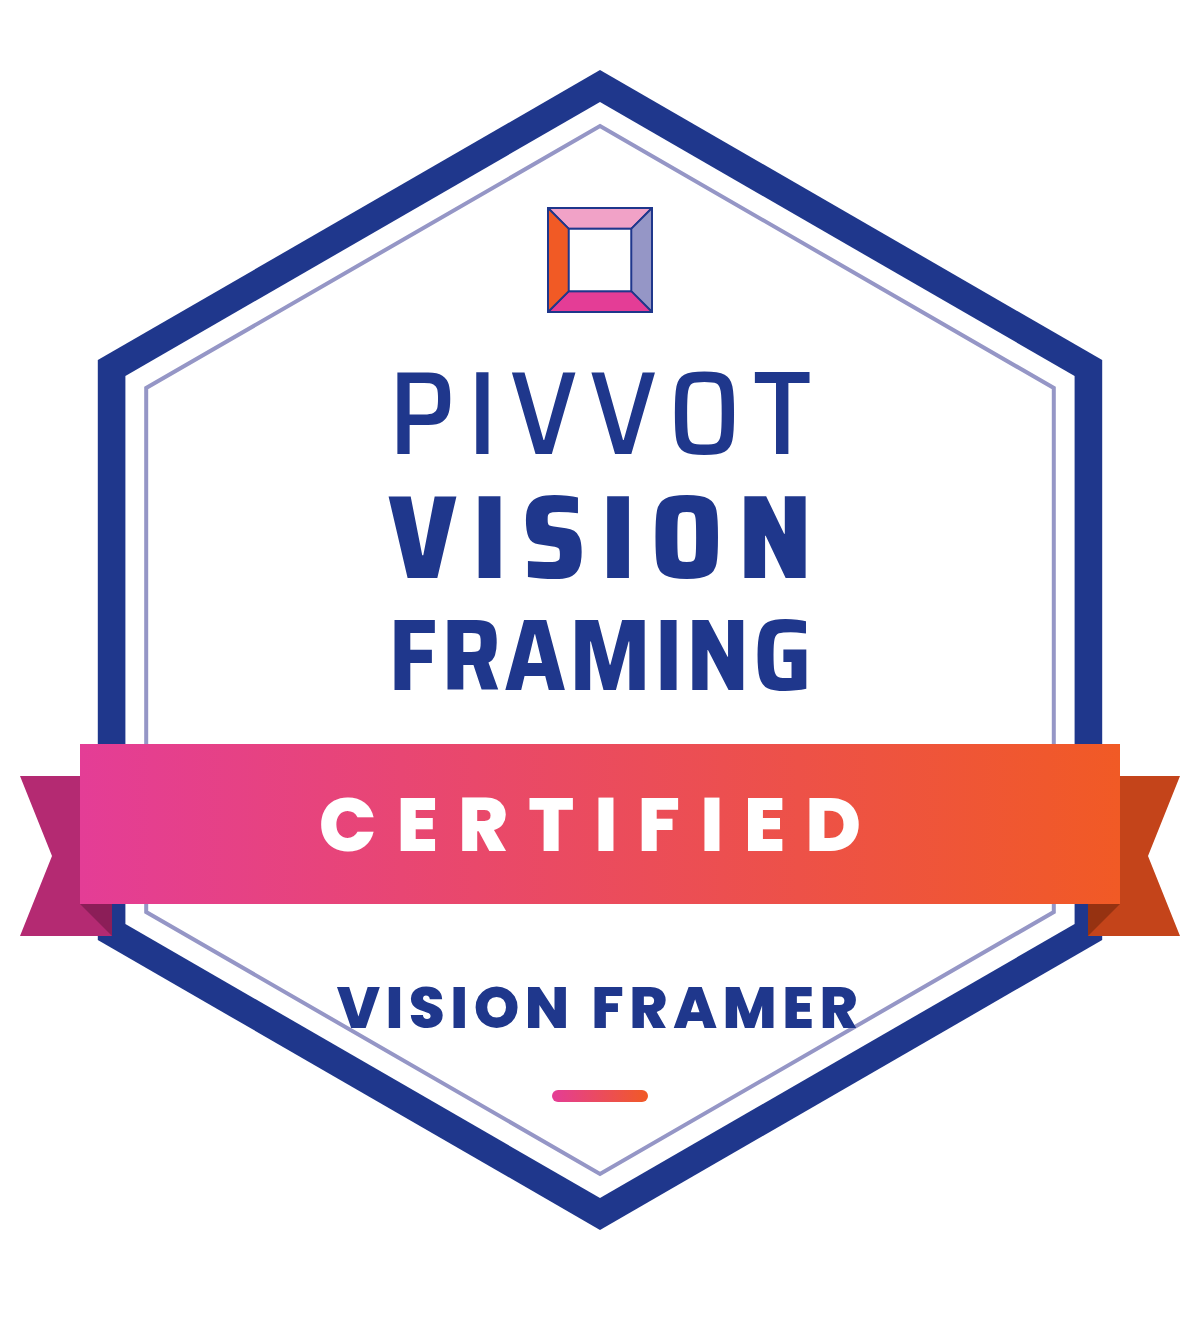
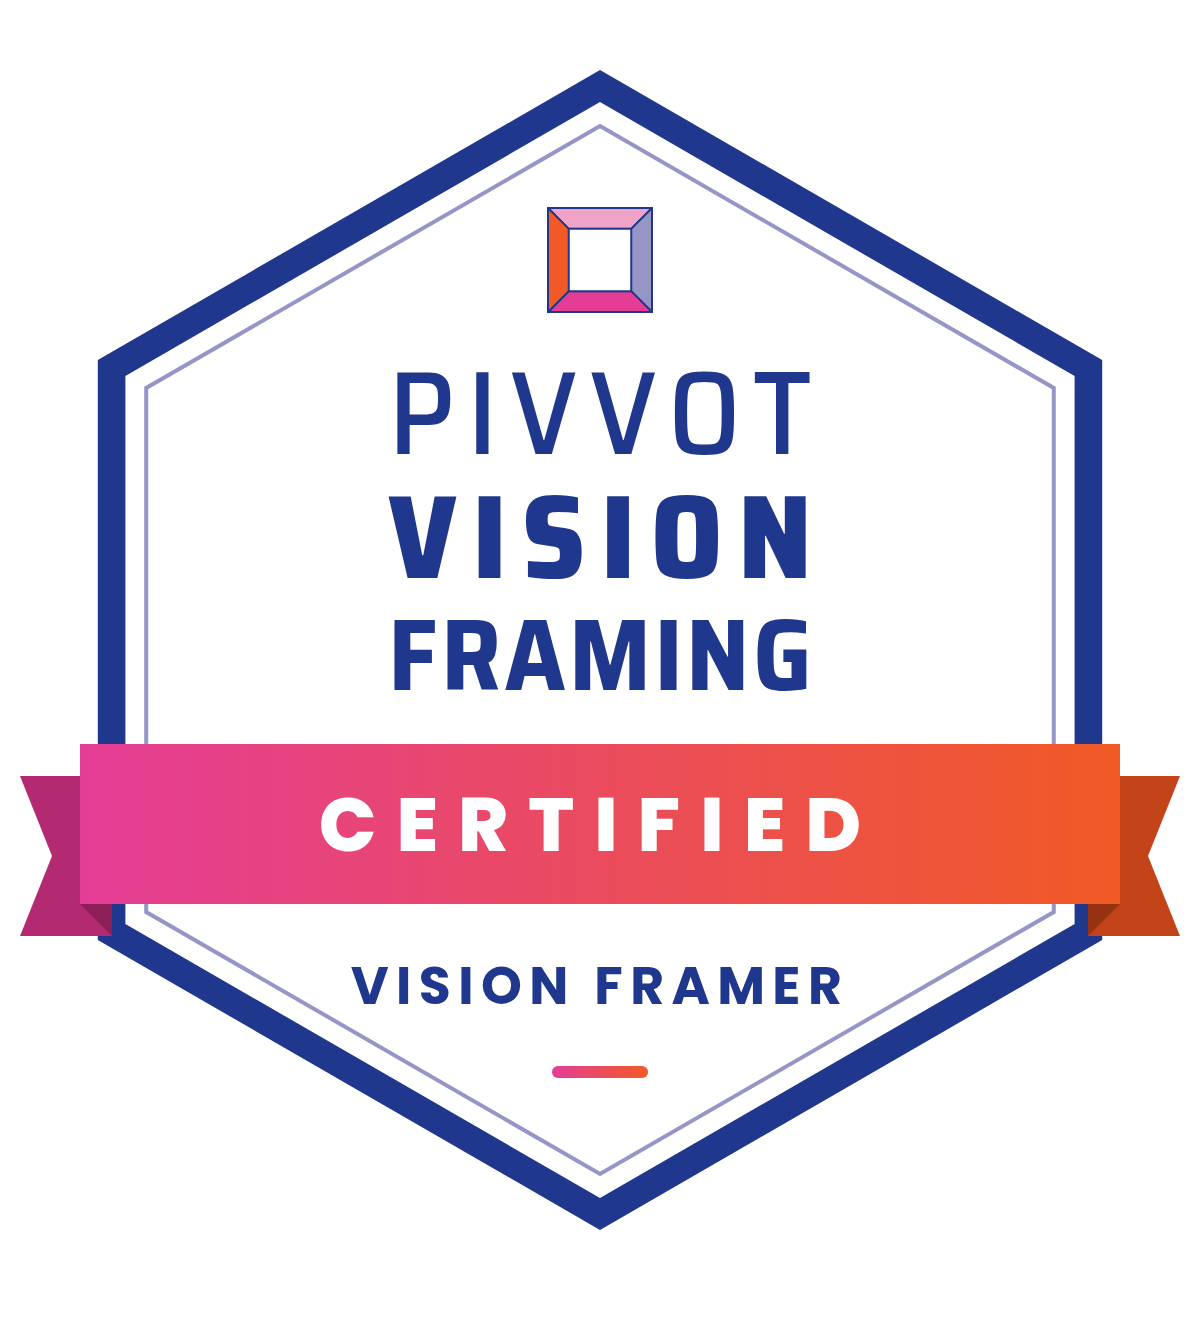
Badges: fit every hexagon line to the hairline; Poppins for supporting type
Size the issuer and bottom lines against the hexagon's width at their
own height with 24px clearance (the issuer line was running into the
inner hairline), and set them in Poppins 600/700 tracked caps, keeping
Saira Semi Condensed for the wordmark only. Same type change on the
lockup eyebrows.

Claude-Session: https://claude.ai/code/session_01BSFopuXw4RjBGF4kx6dqA9

Changed region(s): [[0.2775, 0.7144, 0.7092, 0.7765], [0.4625, 0.8076, 0.555, 0.8386]]

diff --git a/assets/badges/src/build-badges.js b/assets/badges/src/build-badges.js
@@ -41,6 +41,12 @@ function measure(text, key, size, ls = 0) {
   return (u / m.upm) * size + ls * (text.length - 1);
 }
 const capHeight = (key, size) => (METRICS[key].cap / METRICS[key].upm) * size;
+// Largest size ≤ max at which `text` fits in `maxW` (tracking scales with size).
+function fit(text, key, max, ls, maxW) {
+  let size = max;
+  while (size > 8 && measure(text, key, size, ls * size / max) > maxW) size -= 0.5;
+  return { size, ls: +(ls * size / max).toFixed(2) };
+}
 
 // ------------------------------------------------------------------ marks
 // The Vision Frame icon from the certification handouts (icon-vision-frame.png):
@@ -123,11 +129,13 @@ function hexBadge(mark, p) {
   const hex = (r) => [-90, -30, 30, 90, 150, 210]
     .map((deg) => { const t = (deg * Math.PI) / 180; return `${(cx + r * Math.cos(t)).toFixed(1)},${(cy + r * Math.sin(t)).toFixed(1)}`; })
     .join(' ');
-  // Usable half-width of the white interior at height y (inside the 16px band).
-  const ri = R - 16, halfAt = (y) => {
+  // Half-width of a hexagon of radius r at height y. Text is fitted against the
+  // inner hairline hexagon (R - 28) so nothing touches that line.
+  const halfAt = (y, r = R - 28) => {
     const d = Math.abs(y - cy);
-    return d <= ri / 2 ? ri * Math.cos(Math.PI / 6) : Math.max(0, 2 * Math.cos(Math.PI / 6) * (ri - d));
+    return d <= r / 2 ? r * Math.cos(Math.PI / 6) : Math.max(0, 2 * Math.cos(Math.PI / 6) * (r - d));
   };
+  const clear = 24; // minimum gap between any text and the hairline
 
   // Ribbon: body in front; swallow-tailed tails sit behind it and 16px lower,
   // with a darker fold triangle where the body wraps back to each tail.
@@ -144,12 +152,12 @@ function hexBadge(mark, p) {
 
   // Bottom line, sized to fit the narrowing lower half with ≥14px clearance,
   // then a short gradient rule to anchor the point of the hexagon.
-  const vfY = 514;
-  let vfSize = 30, vfLs = 3;
-  while (measure('VISION FRAMER', 'pb-800', vfSize, vfLs) > 2 * (halfAt(vfY) - 14) && vfSize > 20) { vfSize -= 1; vfLs = Math.max(1.5, vfLs - 0.25); }
+  // In the narrowing lower half the line's baseline corners are the tight spot.
+  const vfY = 502;
+  const vf = fit('VISION FRAMER', 'pb-700', 28, 4, 2 * (halfAt(vfY) - clear));
   const bottom = `
-  ${text(cx, vfY, 'VISION FRAMER', { wt: 800, size: vfSize, ls: vfLs, fill: ink })}
-  <rect x="${cx - 24}" y="545" width="48" height="6" rx="3" fill="url(#${p}g)"/>`;
+  ${text(cx, vfY, 'VISION FRAMER', { wt: 700, size: vf.size, ls: vf.ls, fill: ink })}
+  <rect x="${cx - 24}" y="533" width="48" height="6" rx="3" fill="url(#${p}g)"/>`;
 
   // Centre zone: issuer label + mark, or the wordmark under a small frame emblem.
   let centre;
@@ -157,8 +165,11 @@ function hexBadge(mark, p) {
     const w = 212, scale = 1.06, top = 186;
     centre = `${frame(cx - 26, 104, 52)}${wordmark(cx, top, w, { fill: ink, scale })}`;
   } else {
-    const s = 170, y = 176;
-    centre = `${text(cx, 158, 'PIVVOT VISION FRAMING', { font: WM, wt: 700, size: 22, ls: 3, fill: ink })}
+    // Issuer line in Poppins (brand face), fitted to the hairline at its cap top.
+    const ly = 180, lCap = capHeight('pb-600', 20);
+    const lb = fit('PIVVOT VISION FRAMING', 'pb-600', 20, 3.5, 2 * (halfAt(ly - lCap) - clear));
+    const s = 152, y = 196;
+    centre = `${text(cx, ly, 'PIVVOT VISION FRAMING', { wt: 600, size: lb.size, ls: lb.ls, fill: ink })}
     ${blue ? frameBlue(cx - s / 2, y, s, p + 'm') : frame(cx - s / 2, y, s)}`;
   }
 
@@ -186,24 +197,24 @@ function lockupBadge(mark, p) {
     left = wordmark(50 + w / 2, top, w, { fill: ink });
     ruleX = 50 + w + 44; textX = ruleX + 40;
     // Right side: small CERTIFIED eyebrow, then Vision Framer on one line.
-    const eb = { size: 30, ls: 7 }, big = { size: 66 };
-    const blockH = capHeight('ss-700', eb.size) + 22 + capHeight('pb-800', big.size);
+    const eb = { size: 24, ls: 8 }, big = { size: 66 };
+    const blockH = capHeight('pb-700', eb.size) + 22 + capHeight('pb-800', big.size);
     const t0 = cy - blockH / 2;
-    lines = `${text(textX, (t0 + capHeight('ss-700', eb.size)).toFixed(1), 'CERTIFIED', { font: WM, wt: 700, size: eb.size, ls: eb.ls, fill: accent, anchor: 'start' })}
+    lines = `${text(textX, (t0 + capHeight('pb-700', eb.size)).toFixed(1), 'CERTIFIED', { wt: 700, size: eb.size, ls: eb.ls, fill: accent, anchor: 'start' })}
     ${text(textX - 3, (t0 + blockH).toFixed(1), 'Vision Framer', { wt: 800, size: big.size, fill: ink, anchor: 'start' })}`;
-    textEnd = textX + Math.max(measure('CERTIFIED', 'ss-700', eb.size, eb.ls), measure('Vision Framer', 'pb-800', big.size) - 3);
+    textEnd = textX + Math.max(measure('CERTIFIED', 'pb-700', eb.size, eb.ls), measure('Vision Framer', 'pb-800', big.size) - 3);
   } else {
     const s = 160, y = cy - s / 2;
     left = blue ? frameBlue(50, y, s, p + 'm') : frame(50, y, s);
     ruleX = 50 + s + 40; textX = ruleX + 40;
-    const eb = { size: 26, ls: 3 }, big = { size: 52 }, bigCap = capHeight('pb-800', big.size);
-    const blockH = capHeight('ss-700', eb.size) + 20 + bigCap + 14 + bigCap;
+    const eb = { size: 21, ls: 3.5 }, big = { size: 52 }, bigCap = capHeight('pb-800', big.size);
+    const blockH = capHeight('pb-600', eb.size) + 20 + bigCap + 14 + bigCap;
     const t0 = cy - blockH / 2;
-    const y1 = t0 + capHeight('ss-700', eb.size), y2 = y1 + 20 + bigCap, y3 = y2 + 14 + bigCap;
-    lines = `${text(textX, y1.toFixed(1), 'PIVVOT VISION FRAMING', { font: WM, wt: 700, size: eb.size, ls: eb.ls, fill: accent, anchor: 'start' })}
+    const y1 = t0 + capHeight('pb-600', eb.size), y2 = y1 + 20 + bigCap, y3 = y2 + 14 + bigCap;
+    lines = `${text(textX, y1.toFixed(1), 'PIVVOT VISION FRAMING', { wt: 600, size: eb.size, ls: eb.ls, fill: accent, anchor: 'start' })}
     ${text(textX - 3, y2.toFixed(1), 'Certified', { wt: 800, size: big.size, fill: ink, anchor: 'start' })}
     ${text(textX - 3, y3.toFixed(1), 'Vision Framer', { wt: 800, size: big.size, fill: ink, anchor: 'start' })}`;
-    textEnd = textX + Math.max(measure('PIVVOT VISION FRAMING', 'ss-700', eb.size, eb.ls), measure('Vision Framer', 'pb-800', big.size) - 3);
+    textEnd = textX + Math.max(measure('PIVVOT VISION FRAMING', 'pb-600', eb.size, eb.ls), measure('Vision Framer', 'pb-800', big.size) - 3);
   }
   const W = Math.round(textEnd + 64);
   return svg(W, H, TITLE, `<defs>${ruleGrad}</defs>
